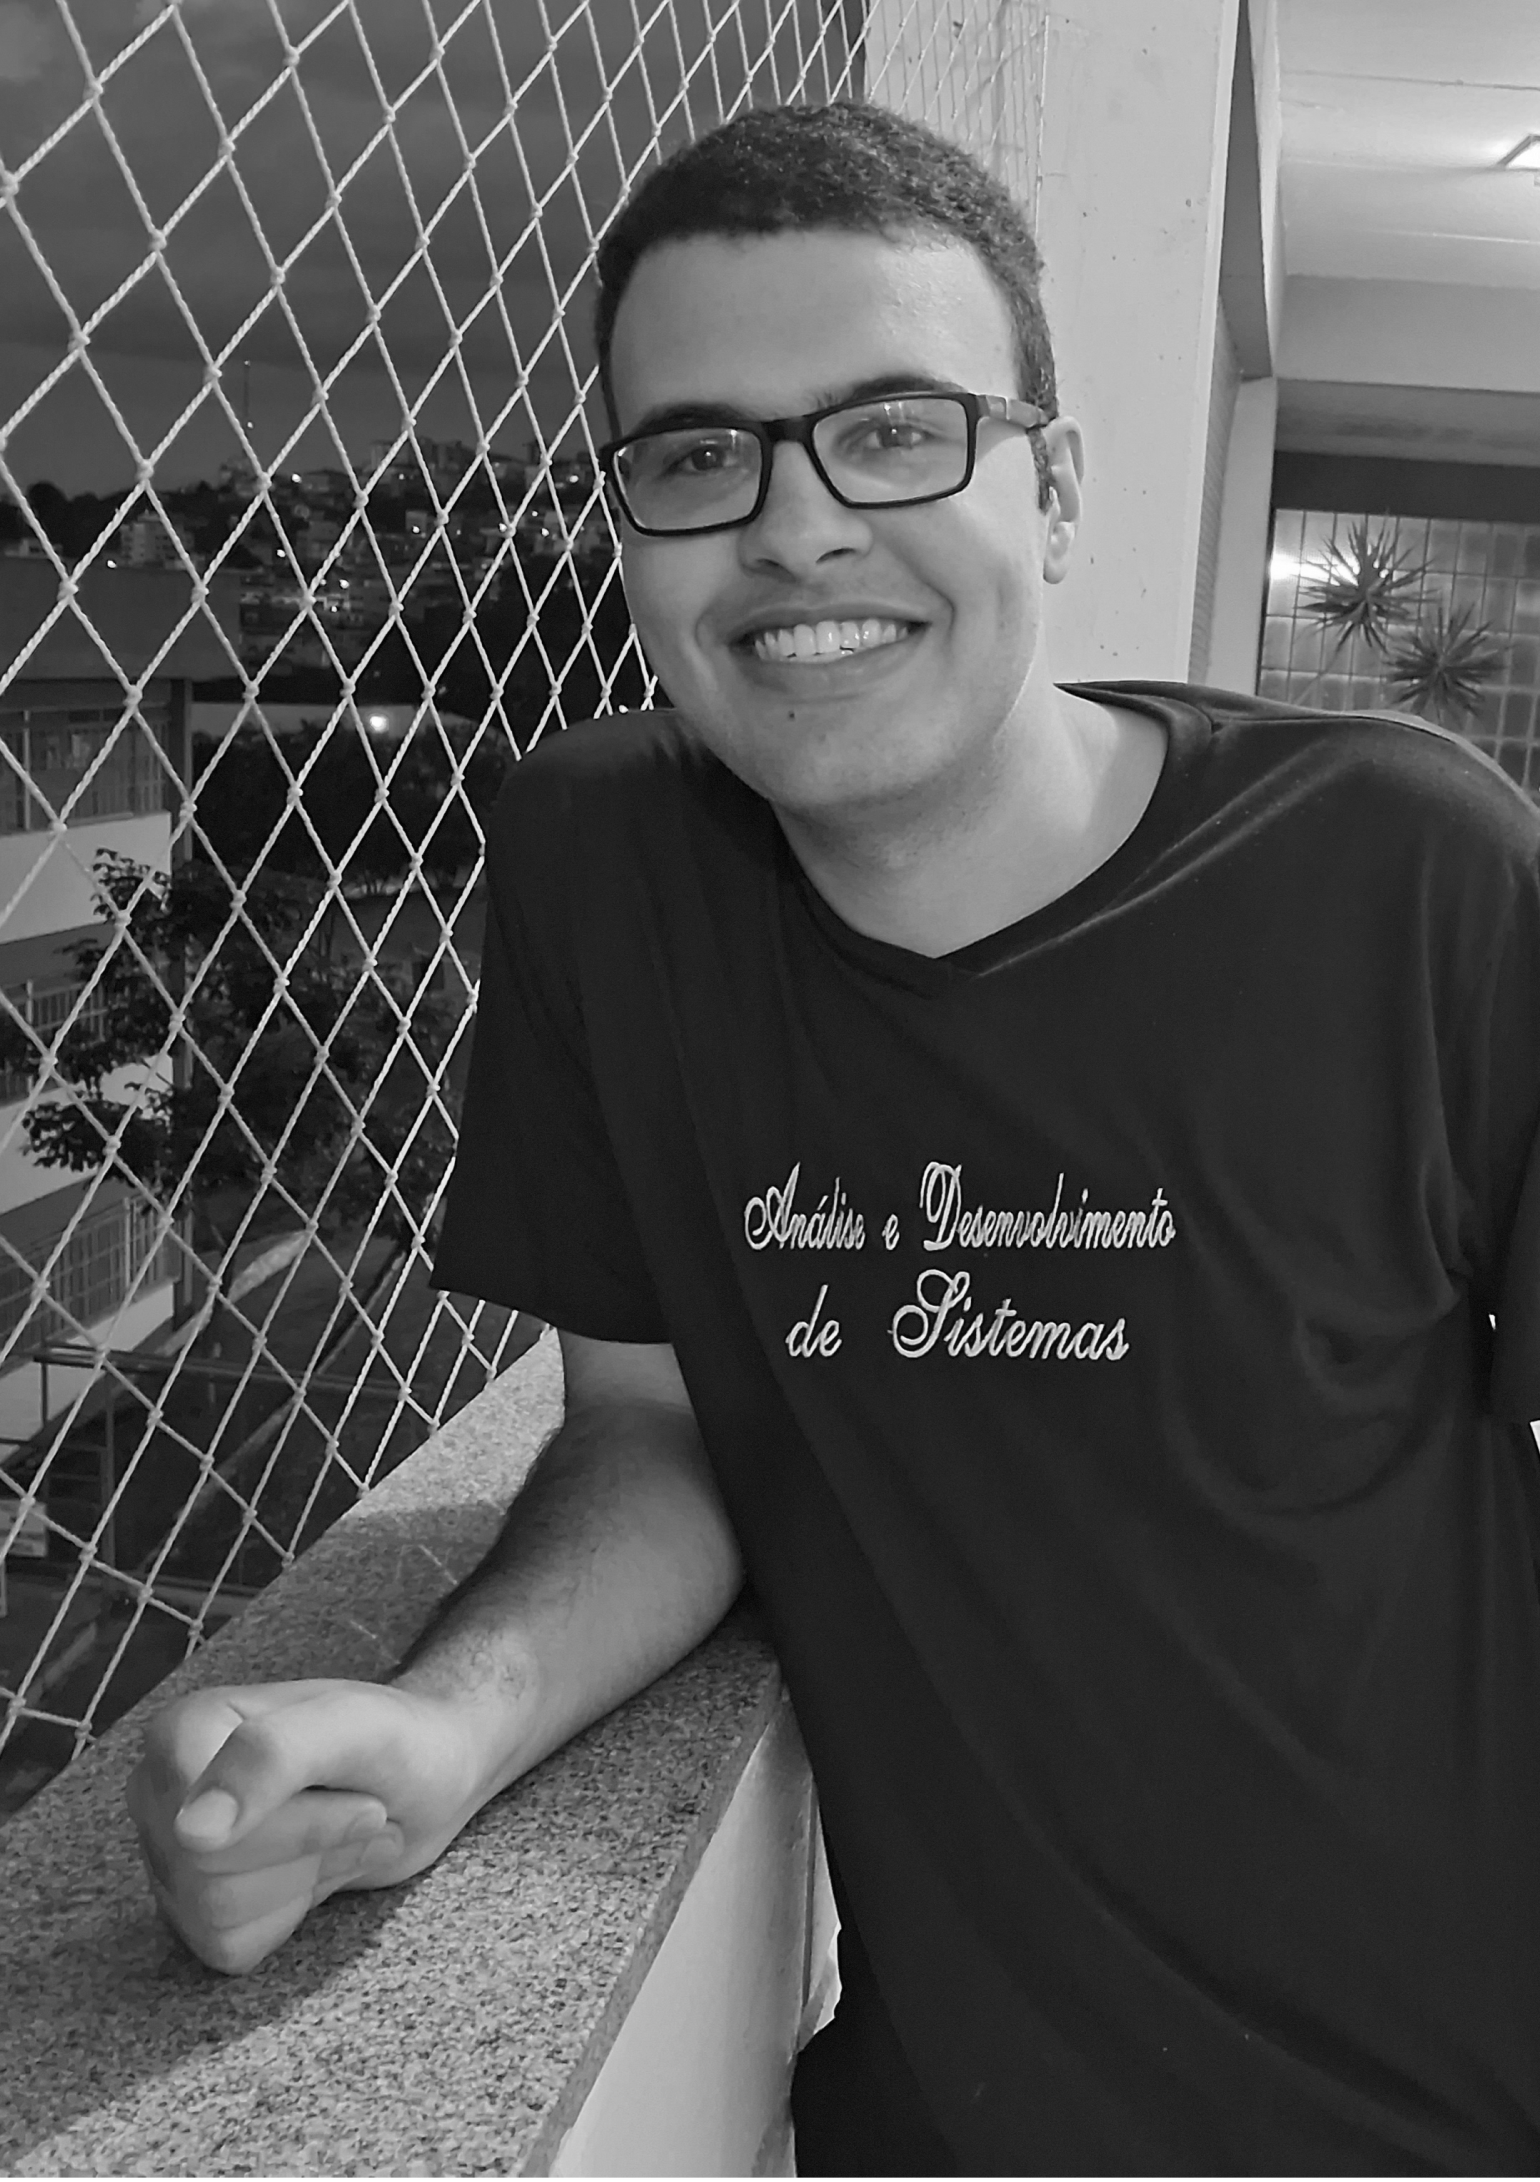
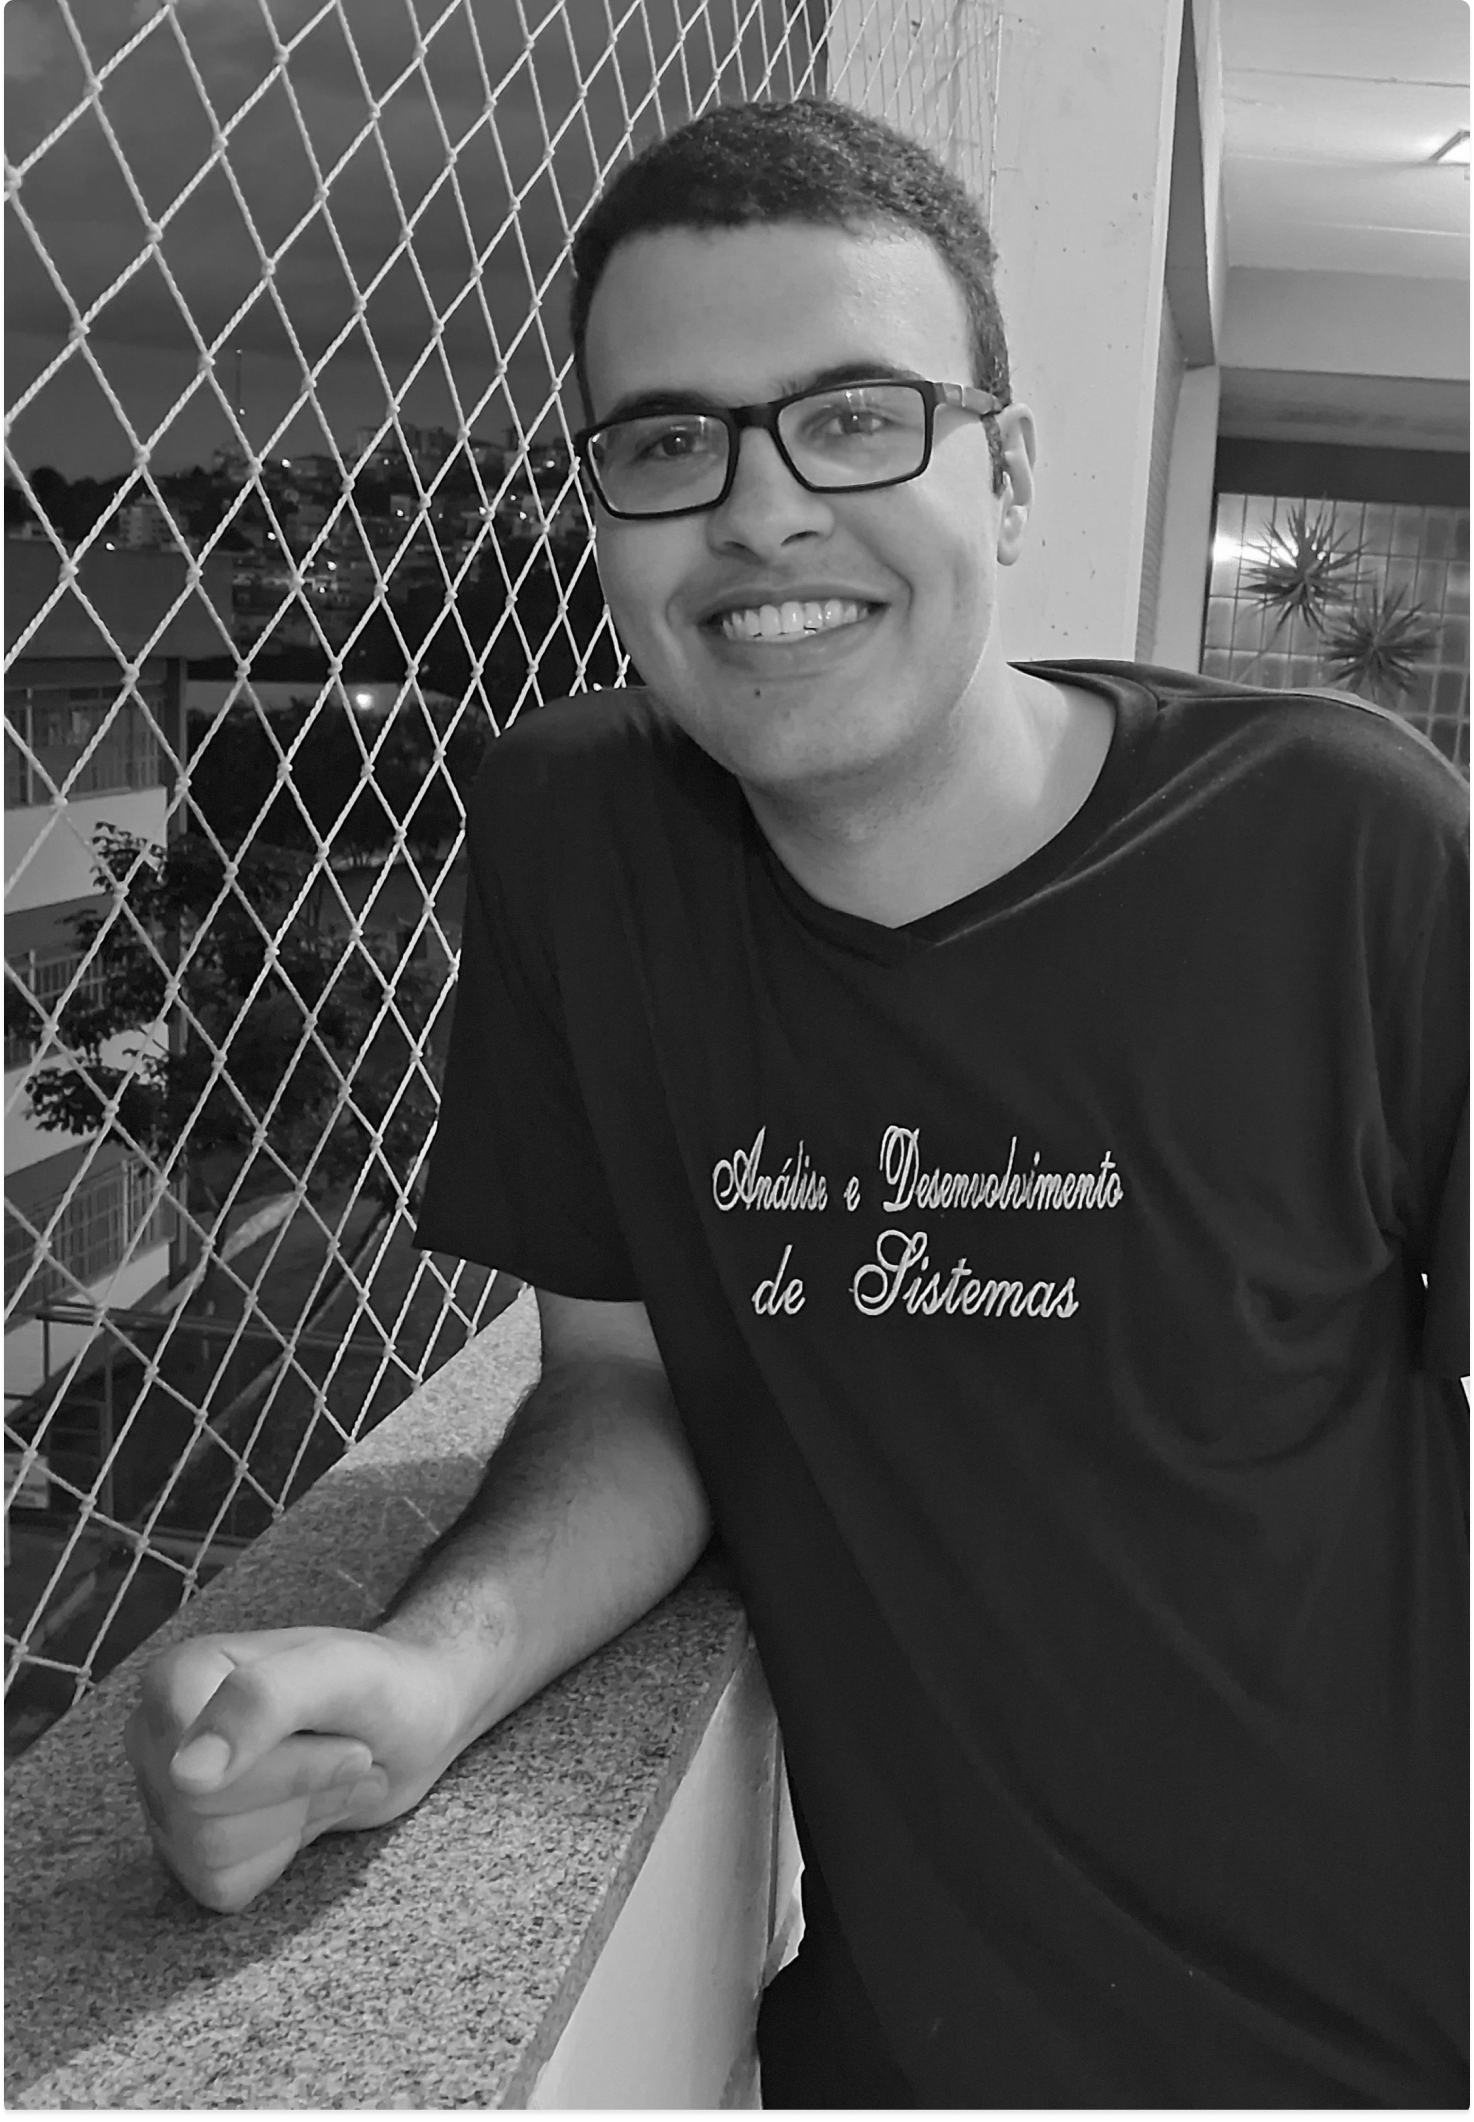
trocando foto da seção sobre, realizando alguns ajustes no botão scroll e pequenas mudanças

diff --git a/src/Components/sobre/Sobre.jsx b/src/Components/sobre/Sobre.jsx
@@ -1,5 +1,6 @@
 import styles from "./Sobre.module.css"
 import Foto from "../../Assets/imagens/Sobre/Panda.jpg"
+import FotoPessoal from '../../Assets/imagens/Sobre/Samuel.png'
 const Sobre = () => {
   return (
     <section className={`${styles.sobre} container`}>
@@ -11,7 +12,7 @@ const Sobre = () => {
       </div>
       <div className={styles.decFotoContainer}>
         <div className={styles.fotoContainer}>
-        <img className={styles.foto} src={Foto} alt="" />
+        <img className={styles.foto} src={FotoPessoal} alt="" />
           <div className={styles.fotoDec}>
           </div>  
         </div>

diff --git a/src/Components/footer/Footer.jsx b/src/Components/footer/Footer.jsx
@@ -18,8 +18,8 @@ const Footer = () => {
         </div>
         <div className={styles.contactInfo}>    
          <h1>contato<span>.</span></h1>
-         <a className= {`${styles.InfoItem} ${styles.email}`} href="">samuelcazaes@gmail.com<EmailIcon/></a>
-         <a className= {`${styles.InfoItem} ${styles.telefone}`} href="">(31) 9 9919-3389 <TelefoneIcon/></a>
+         <a className= {`${styles.InfoItem} ${styles.email}`} >samuelcazaes@gmail.com<EmailIcon/></a>
+         <a className= {`${styles.InfoItem} ${styles.telefone}`}>(31) 9 9919-3389 <TelefoneIcon/></a>
         </div>
     </footer>
   )

diff --git a/src/Components/scroll/Scroll.module.css b/src/Components/scroll/Scroll.module.css
@@ -5,13 +5,18 @@
   color: white;
   position: fixed;
   bottom: 150px;
-  right: 200px;
+  right: 110px;
   border-radius: 50%;
   border: 2px solid white;
   display: flex;
   align-items: center;
   justify-content: center;
   z-index: 200;
+  transition: 0.5s;
+}
+
+.scrollDiv:hover {
+  transform: scale(1.2);
 }
 
 .ativado{
@@ -47,3 +52,12 @@
     opacity: 0;
   }
 }
+
+@media(max-width:1500px) {
+  .scrollDiv {
+    right: 50px;
+    height: 70px;
+    width: 70px;
+  }
+}
+

diff --git a/src/Components/sobre/Sobre.module.css b/src/Components/sobre/Sobre.module.css
@@ -61,7 +61,6 @@
   }
 }
 
-
 .descricao {
   margin-bottom: 20px;
 }
@@ -95,7 +94,6 @@
   height: 100%;
   object-fit: contain;
 }
-
 
 .fotoDec {
   position: absolute;
